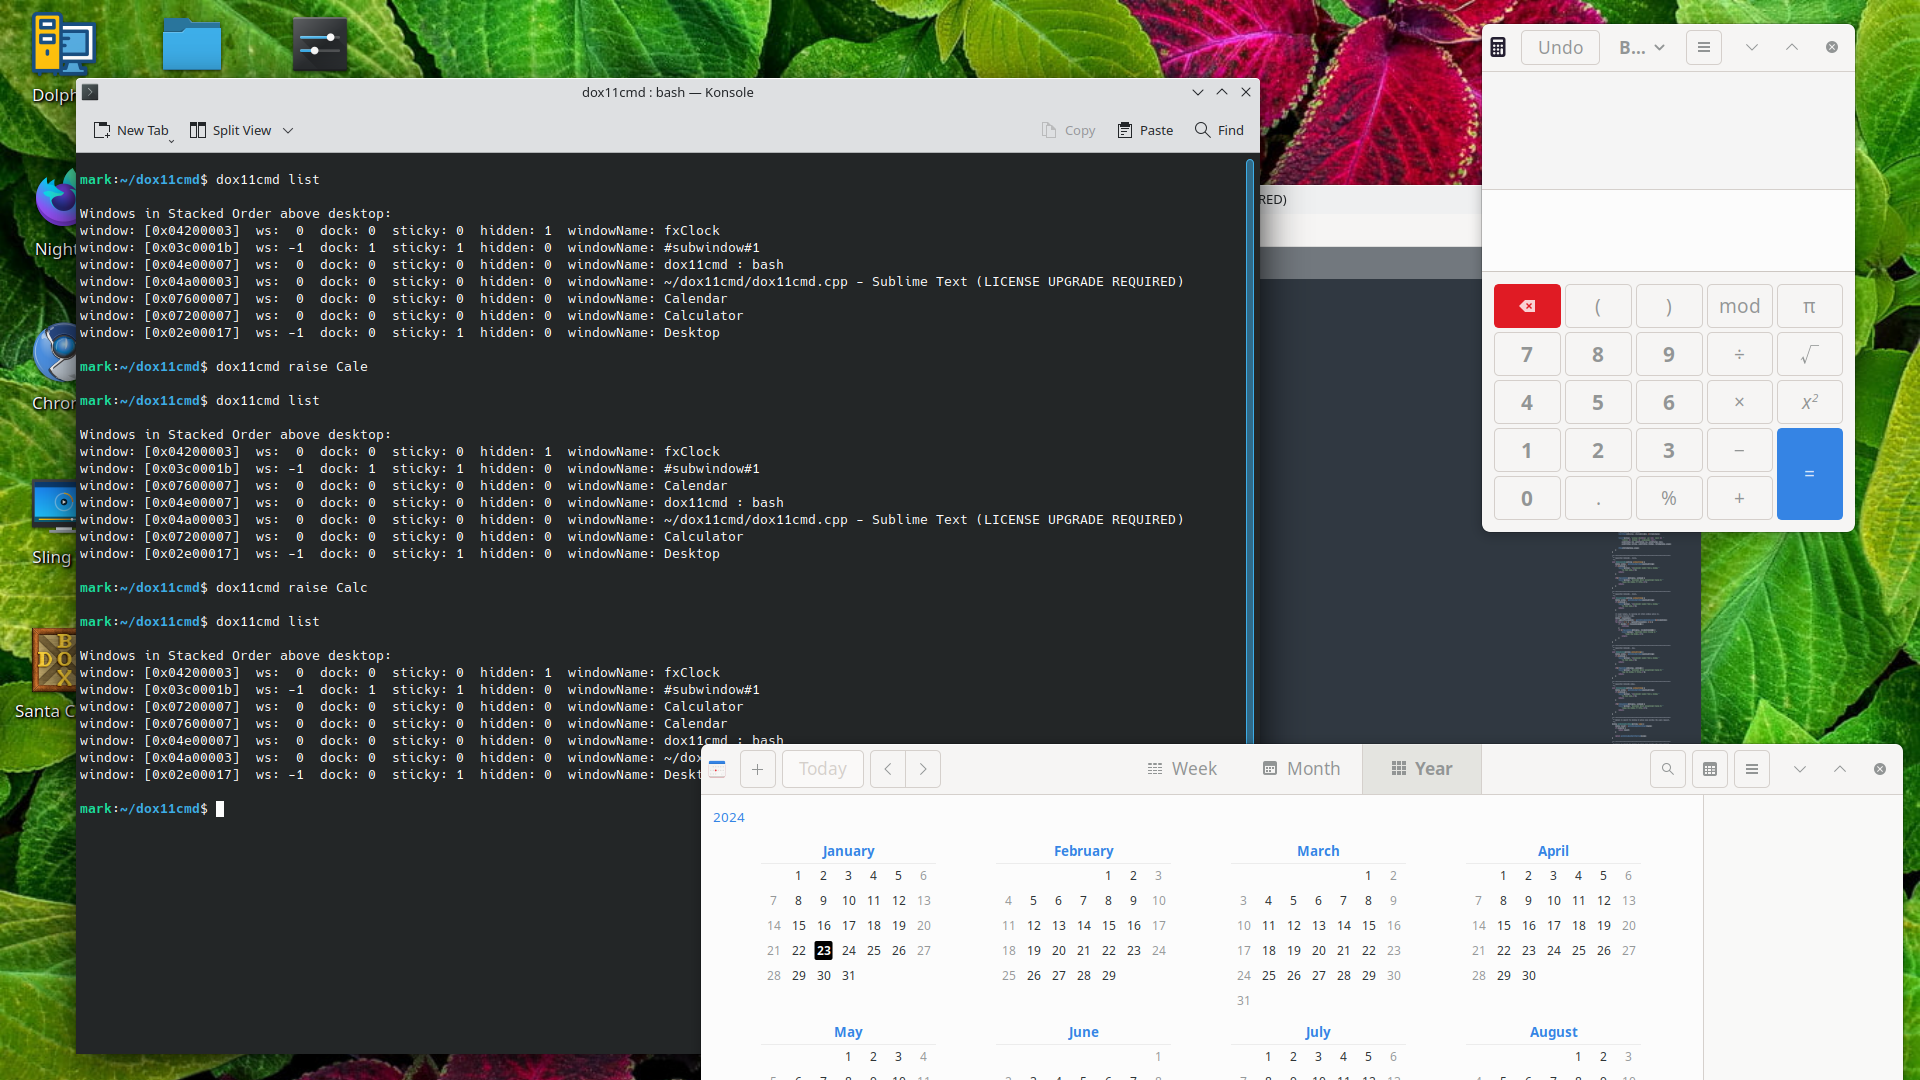
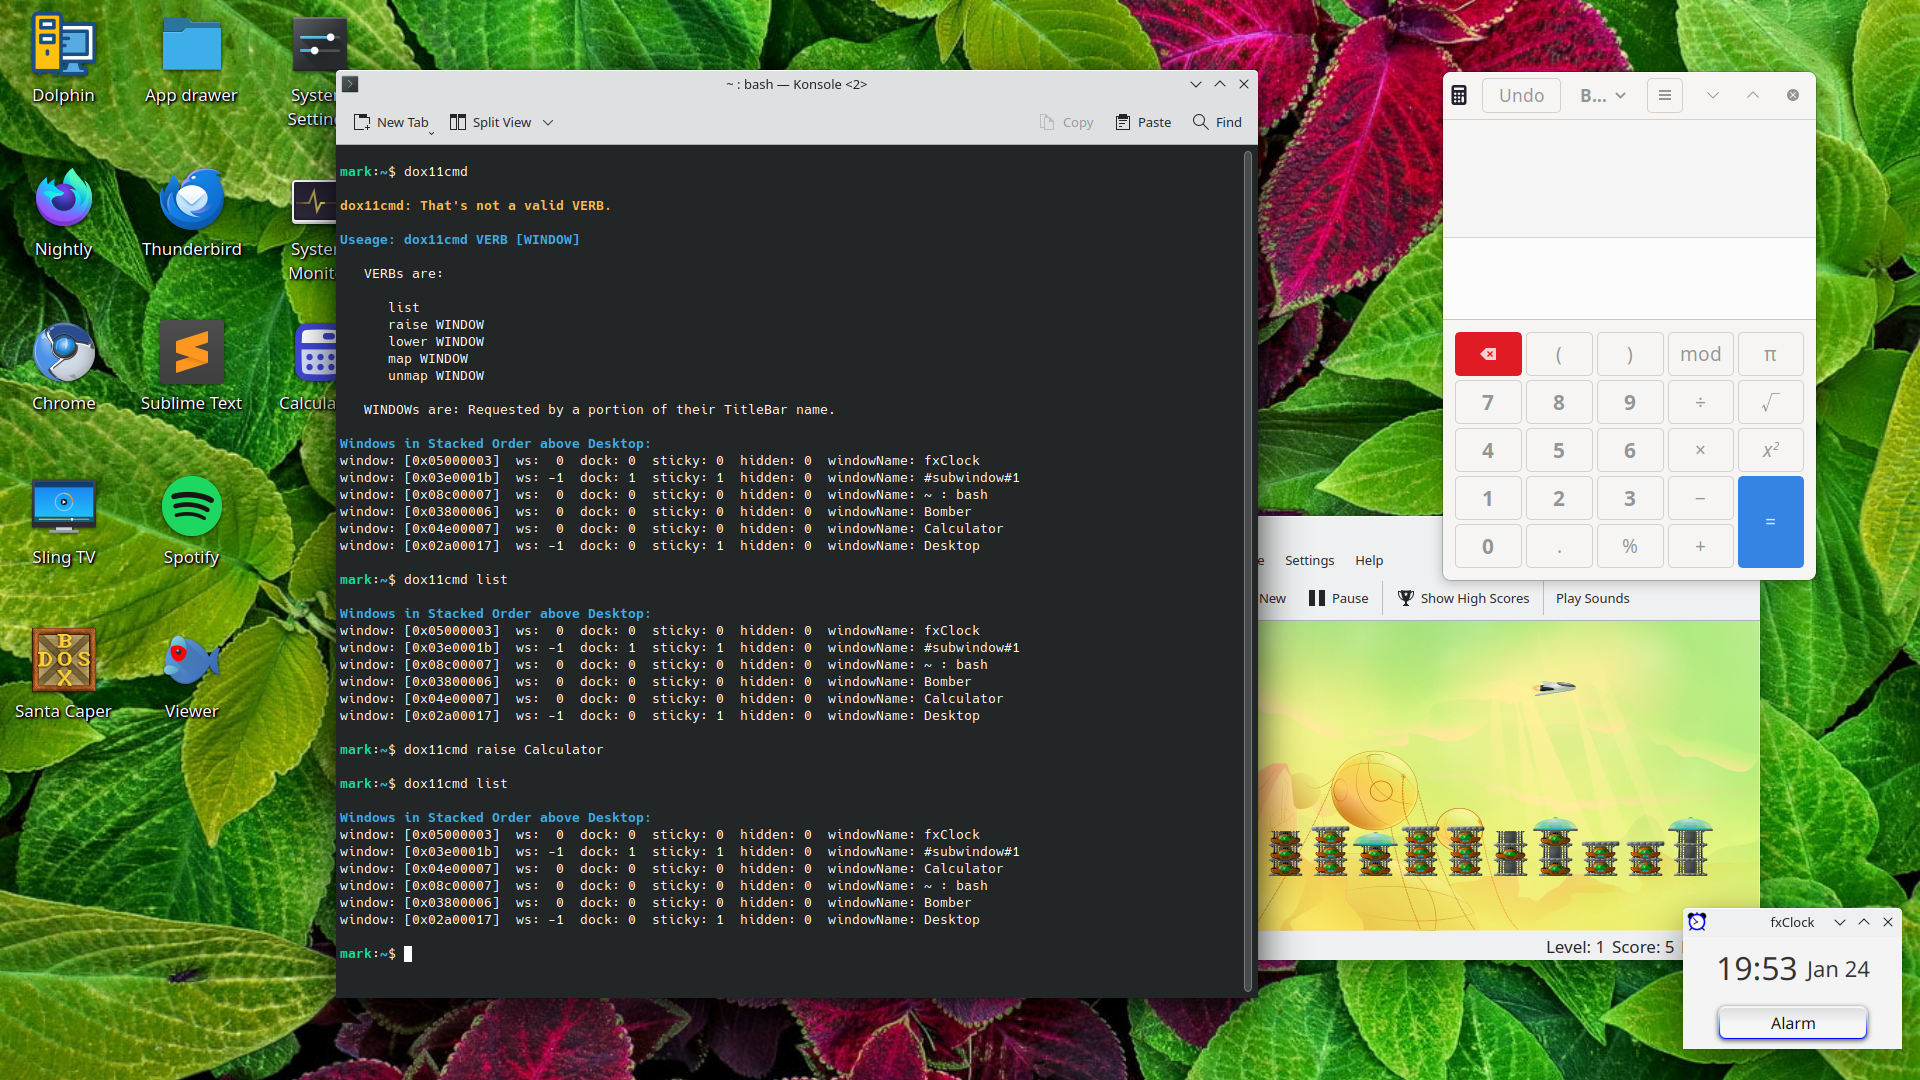
https://github.com/markcapella/dox11cmd/issues/1

diff --git a/dox11cmd.cpp b/dox11cmd.cpp
@@ -129,8 +129,9 @@ int main(int argc, char **argv) {
             break;
 
         default:
-            cout << "\ndox11cmd: That\'s not a valid VERB." << endl;
+            cout << "\033[33;1m\ndox11cmd: That\'s not a valid VERB.\033[0m" << endl;
             doDisplayUseage();
+            doListStackedWindowNames();
     }
 
     XCloseDisplay(mDisplay);
@@ -140,16 +141,17 @@ int main(int argc, char **argv) {
  ** Display useage (All Supported Commands).
  **/
 void doDisplayUseage() {
-    cout << "\nUseage: dox11cmd VERB WINDOW" << endl << endl;
+    cout << "\033[34;1m\nUseage: dox11cmd VERB [WINDOW]\033[0m"
+        << endl << endl;
 
-    cout << "VERBs are: " << endl << endl;
-    cout << "   list" << endl;
-    cout << "   raise WINDOW" << endl;
-    cout << "   lower WINDOW" << endl;
-    cout << "   map WINDOW" << endl;
-    cout << "   unmap WINDOW" << endl;
-
-    cout << "\nWINDOWs are: Requested by a portion of their "
+    cout << "   VERBs are: " << endl << endl;
+    cout << "      list" << endl;
+    cout << "      raise WINDOW" << endl;
+    cout << "      lower WINDOW" << endl;
+    cout << "      map WINDOW" << endl;
+    cout << "      unmap WINDOW" << endl;
+    cout << endl;
+    cout << "   WINDOWs are: Requested by a portion of their "
         "TitleBar name." << endl;
 }
 
@@ -157,10 +159,11 @@ void doDisplayUseage() {
  ** Supported Commands - list.
  **/
 void doListStackedWindowNames() {
+    cout << "\033[34;1m\nWindows in Stacked Order "
+        "above Desktop:\033[0m" << endl;
+
     Window* stackedWins;
     int numberOfStackedWins = getX11StackedWindowsList(&stackedWins);
-
-    cout << "\nWindows in Stacked Order above desktop:" << endl;
 
     for (int i = numberOfStackedWins - 1; i >= 0; i--) {
         WinInfo* winInfoItem = (WinInfo*) malloc(sizeof(WinInfo));
@@ -196,8 +199,8 @@ void doListStackedWindowNames() {
 void doRaiseWindow(string windowString) {
     Window window = getWindowMatchName(windowString);
     if (!window) {
-        fprintf(stdout, "\ndox11cmd: Cannot find a Window "
-            "by that name.\n");
+        cout << "\033[33;1m\ndox11cmd: Cannot find a Window "
+            "by that name.\033[0m" << endl;
         return;
     }
 
@@ -214,8 +217,8 @@ void doRaiseWindow(string windowString) {
 void doLowerWindow(string windowString) {
     Window window = getWindowMatchName(windowString);
     if (!window) {
-        fprintf(stdout, "\ndox11cmd: Cannot find a Window "
-            "by that name.\n");
+        cout << "\033[33;1m\ndox11cmd: Cannot find a Window "
+            "by that name.\033[0m" << endl;
         return;
     }
 
@@ -241,8 +244,8 @@ void doLowerWindow(string windowString) {
 void doMapWindow(string windowString) {
     Window window = getWindowMatchName(windowString);
     if (!window) {
-        fprintf(stdout, "\ndox11cmd: Cannot find a Window "
-            "by that name.\n");
+        cout << "\033[33;1m\ndox11cmd: Cannot find a Window "
+            "by that name.\033[0m" << endl;
         return;
     }
 
@@ -259,8 +262,8 @@ void doMapWindow(string windowString) {
 void doUnmapWindow(string windowString) {
     Window window = getWindowMatchName(windowString);
     if (!window) {
-        fprintf(stdout, "\ndox11cmd: Cannot find a Window "
-            "by that name.\n");
+        cout << "\033[33;1m\ndox11cmd: Cannot find a Window "
+            "by that name.\033[0m" << endl;
         return;
     }
 
@@ -509,6 +512,35 @@ Bool isWindow_Hidden(Window window, int windowMapState) {
 }
 
 /** *********************************************************************
+ ** This method ...
+ **/
+Bool isDesktop_Visible() {
+    Bool result = true;
+
+    Atom type;
+    int format;
+    unsigned long nitems, unusedBytes;
+    unsigned char *properties = NULL;
+
+    XGetWindowProperty(mDisplay, DefaultRootWindow(mDisplay),
+        XInternAtom(mDisplay, "_NET_SHOWING_DESKTOP", False),
+        0, (~0L), False, AnyPropertyType, &type, &format,
+        &nitems, &unusedBytes, &properties);
+
+    if (format == 32 && nitems >= 1) {
+        if (*(long *) (void *) properties == 1) {
+            result = false;
+        }
+    }
+
+    if (properties) {
+        XFree(properties);
+    }
+
+    return result;
+}
+
+/** *********************************************************************
  ** This method checks "_NET_WM_STATE" for window HIDDEN attribute.
  **/
 Bool isNetWM_Hidden(Window window) {
@@ -578,31 +610,3 @@ Bool isWM_Hidden(Window window) {
     return result;
 }
 
-/** *********************************************************************
- ** This method ...
- **/
-Bool isDesktop_Visible() {
-    Bool result = false;
-
-    Atom type;
-    int format;
-    unsigned long nitems, unusedBytes;
-    unsigned char *properties = NULL;
-
-    XGetWindowProperty(mDisplay, DefaultRootWindow(mDisplay),
-        XInternAtom(mDisplay, "_NET_SHOWING_DESKTOP", False),
-        0, (~0L), False, AnyPropertyType, &type, &format,
-        &nitems, &unusedBytes, &properties);
-
-    if (format == 32 && nitems >= 1) {
-        if (*(long *) (void *) properties != 1) {
-            result = true;
-        }
-    }
-
-    if (properties) {
-        XFree(properties);
-    }
-
-    return result;
-}
